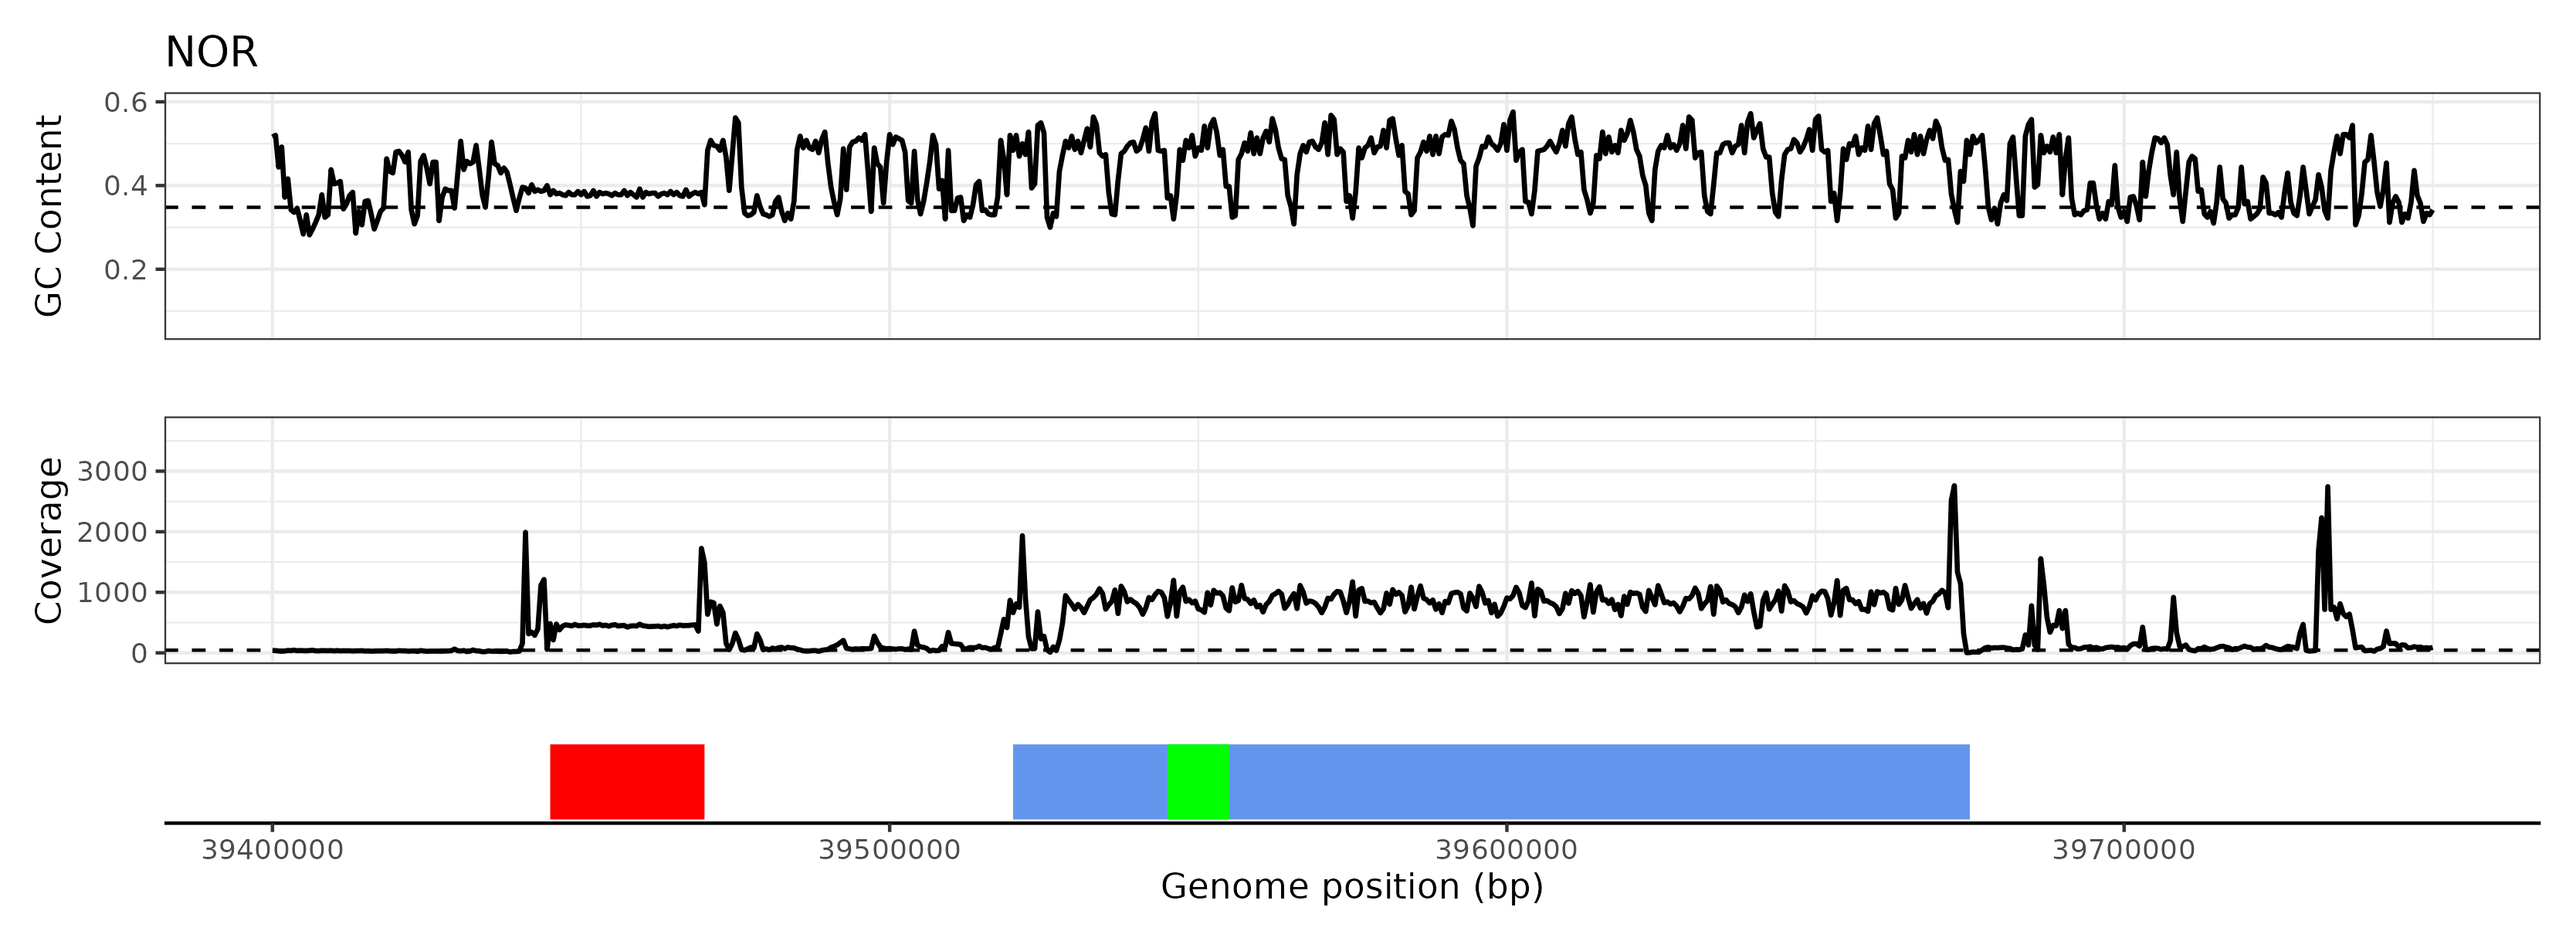
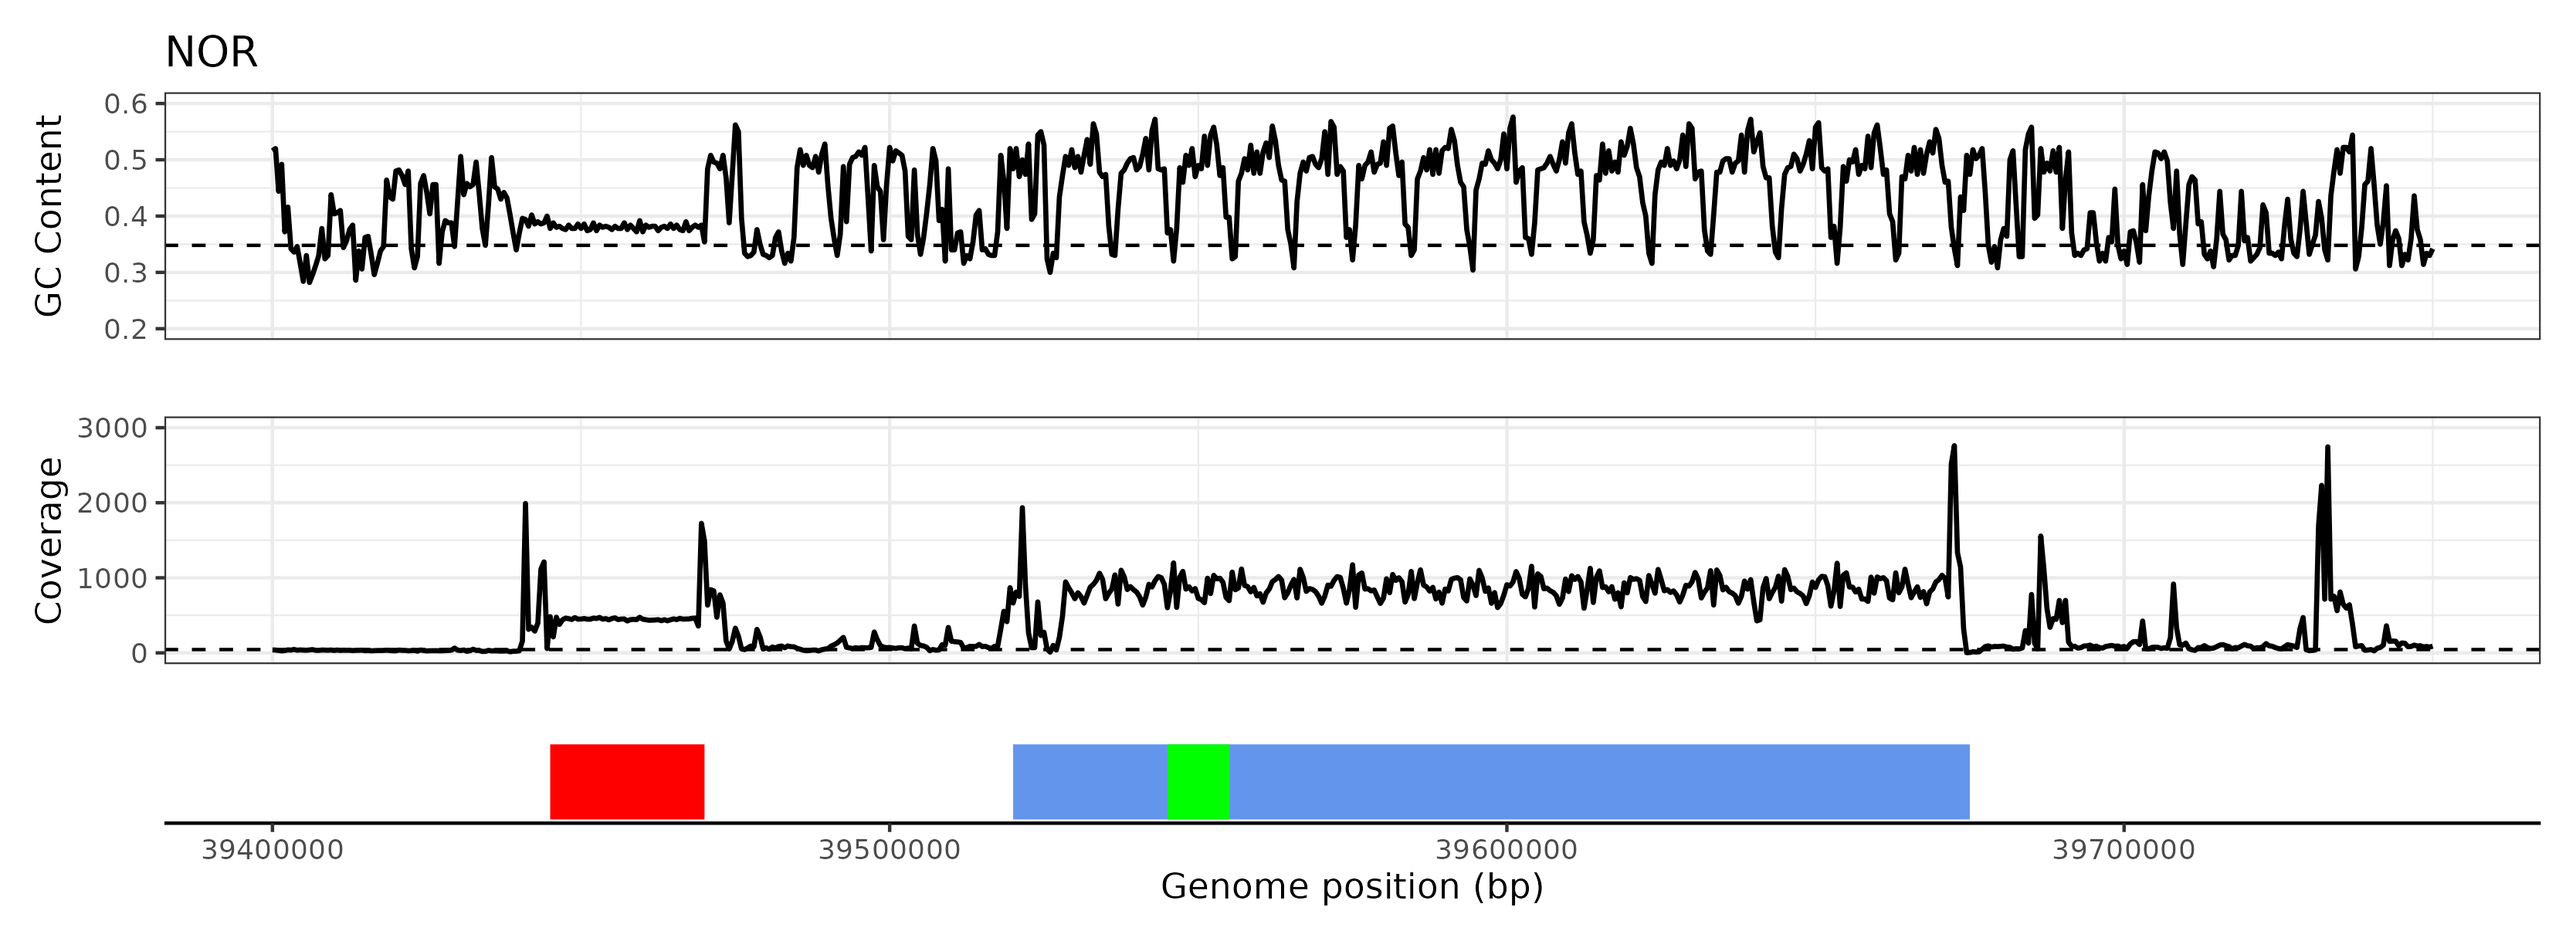
update to gene coverage

diff --git a/03_code/smansoni_genome.coverage.md b/03_code/smansoni_genome.coverage.md
@@ -77,6 +77,7 @@ cov_median <- median(cov$V4/500)
 plot_nuc <- ggplot(nuc) +
      geom_line(aes(V2, V5), size=0.75) +
      xlim(39.4e6, 39.75e6) +
+     ylim(0.2, 0.6) +
      theme_bw() + guides(x = "none") +
      labs(x="", y="GC Content", title="NOR") +
      geom_hline(yintercept=nuc_median, linetype="dashed")
@@ -84,6 +85,7 @@ plot_nuc <- ggplot(nuc) +
 plot_cov <- ggplot(cov) +
      geom_line(aes(V2, V4/500), size=0.75) +
      xlim(39.4e6, 39.75e6) +
+     ylim(0, 3000) +
      theme_bw() + guides(x = "none") +
      labs(x="", y="Coverage")  +
      geom_hline(yintercept=cov_median, linetype="dashed")
@@ -106,10 +108,9 @@ ggsave("figure_NOR.gc.coverage.png")
 ```
 ![](../04_analysis/figure_NOR.gc.coverage.png)
 
-ggsave("figure_V5vV10_zchromosome_coverage_synteny.pdf", height=100, width=170, units="mm")
-ggsave("figure_V5vV10_zchromosome_coverage_synteny.png")
 
-```
+
+
 
 
 
@@ -122,25 +123,26 @@ library(patchwork)
 
 # load gene data, and determine min and max coords per gene
 gene <- read.table("mb_IPSE.bed", header=F)
-gene_summary <- data %>% group_by(V5) %>% summarise(min=min(V2), max=max(V3), strand=V4)
+gene_summary <- gene %>% group_by(V5) %>% summarise(min=min(V2), max=max(V3), strand=V4)
 
 # load nucleotide frequency data, and calculate median GC
-nuc <- read.table("../COV/SM_V9_1.500b.nucfreq", header=F)
+nuc <- read.table("SM_V9_1.500b.nucfreq", header=F)
 nuc_median <- median(nuc$V5)
 
 # load coverage data, and calculate median coverage
-cov <- read.table("../COV/SM_V9_1.500b.coverage", header=F)
+cov <- read.table("SM_V9_1.500b.coverage", header=F)
 cov_median <- median(cov$V4/500)
 
 # make some plots
 plot_nuc <- ggplot(nuc) +
-     geom_line(aes(V2, V5), size=0.75) +
+     geom_line(aes(V2, V5), linewidth=0.75) +
      xlim(7090000, 7280000) +
+     ylim(0.2, 0.6) +
      theme_bw() + guides(x = "none") + labs(x="", y="GC Content", title="IPSE") +
      geom_hline(yintercept=nuc_median, linetype="dashed")
 
 plot_cov <- ggplot(cov) +
-     geom_line(aes(V2, V4/500), size=0.75) +
+     geom_line(aes(V2, V4/500), linewidth=0.75) +
      xlim(7090000, 7280000) + ylim(0,200) +
      theme_bw() + guides(x = "none") +
      labs(x="", y="Coverage")  +
@@ -156,7 +158,12 @@ plot_gene <- ggplot() +
 
 # combine into multipanel
 plot_nuc + plot_cov + plot_gene + plot_layout(ncol=1, heights=c(3,3,1))
+
+ggsave("figure_IPSE.gc.coverage.pdf", height=100, width=170, units="mm")
+ggsave("figure_IPSE.gc.coverage.png")
 ```
+![](../04_analysis/figure_IPSE.gc.coverage.png)
+
 
 
 # OMEGA plot
@@ -168,27 +175,29 @@ library(patchwork)
 
 # load gene data, and determine min and max coords per gene
 gene <- read.table("mb_omega.bed", header=F)
-gene_summary <- data %>% group_by(V5) %>% summarise(min=min(V2), max=max(V3), strand=V4)
+gene_summary <- gene %>% group_by(V5) %>% summarise(min=min(V2), max=max(V3), strand=V4)
 
 
 # load nucleotide frequency data, and calculate median GC
-nuc <- read.table("../COV/SM_V9_1.500b.nucfreq", header=F)
+nuc <- read.table("SM_V9_1.500b.nucfreq", header=F)
 nuc_median <- median(nuc$V5)
 
 # load coverage data, and calculate median coverage
-cov <- read.table("../COV/SM_V9_1.500b.coverage", header=F)
+cov <- read.table("SM_V9_1.500b.coverage", header=F)
 cov_median <- median(cov$V4/500)
 
 # make some plots
 plot_nuc <- ggplot(nuc) +
      geom_line(aes(V2, V5), size=0.75) +
      xlim(3620000, 3880000) +
+     ylim(0.2, 0.6) +
      theme_bw() + guides(x = "none") + labs(x="", y="GC Content", title="omega") +
      geom_hline(yintercept=nuc_median, linetype="dashed")
 
 plot_cov <- ggplot(cov) +
      geom_line(aes(V2, V4/500), size=0.75) +
-     xlim(3620000, 3880000) + ylim(0,200) +
+     xlim(3620000, 3880000) +
+     ylim(0, 150) +
      theme_bw() + guides(x = "none") + labs(x="", y="Coverage")  +
      geom_hline(yintercept=cov_median, linetype="dashed")
 
@@ -202,7 +211,11 @@ plot_gene <- ggplot() +
 
 # combine into multipanel
 plot_nuc + plot_cov + plot_gene + plot_layout(ncol=1, heights=c(3,3,1))
+
+ggsave("figure_omega.gc.coverage.pdf", height=100, width=170, units="mm")
+ggsave("figure_omega.gc.coverage.png")
 ```
+![](../04_analysis/figure_omega.gc.coverage.png)
 
 
 
